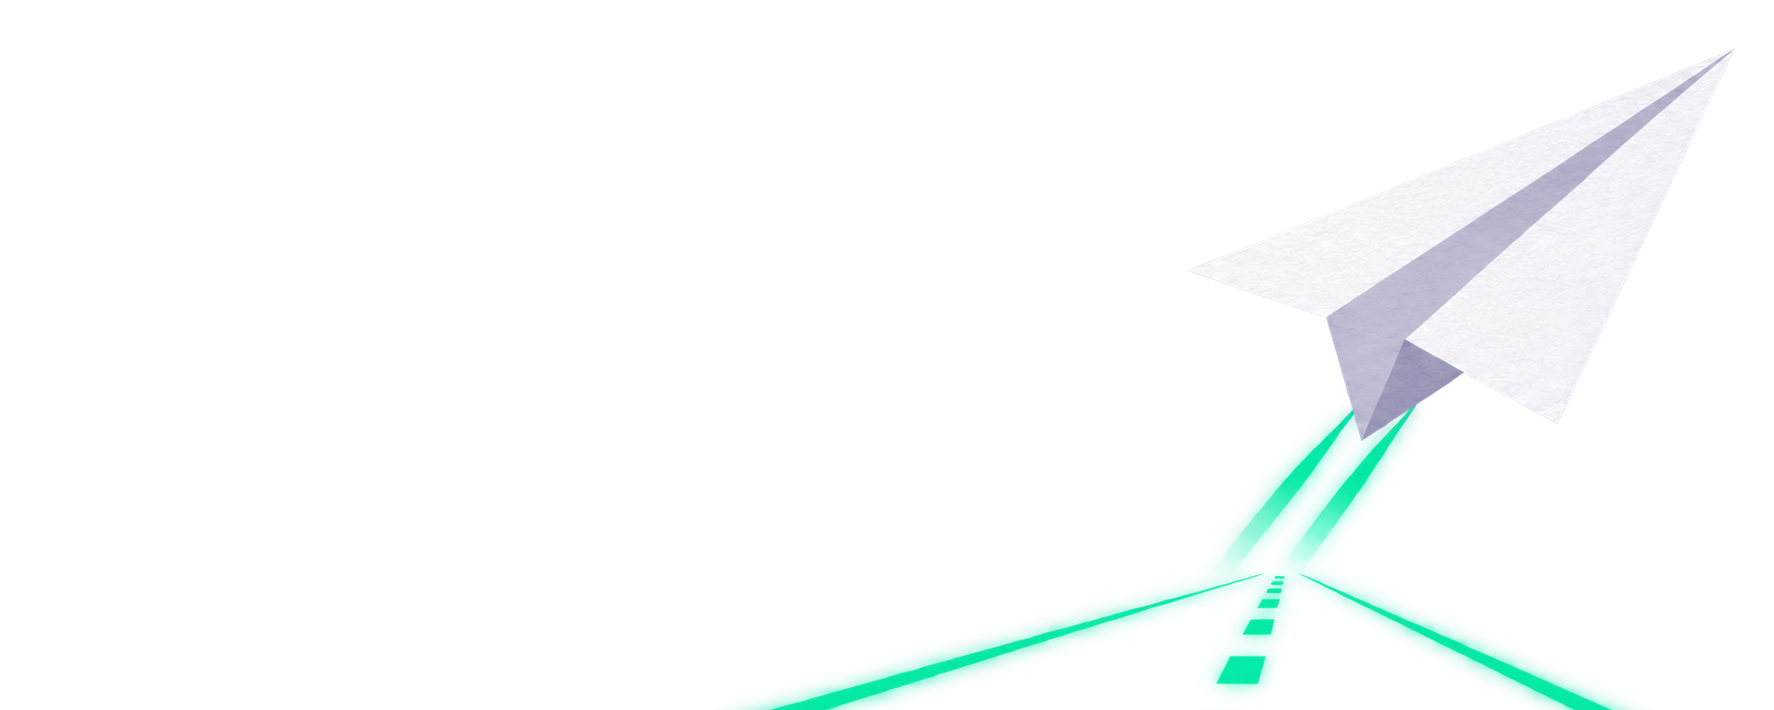
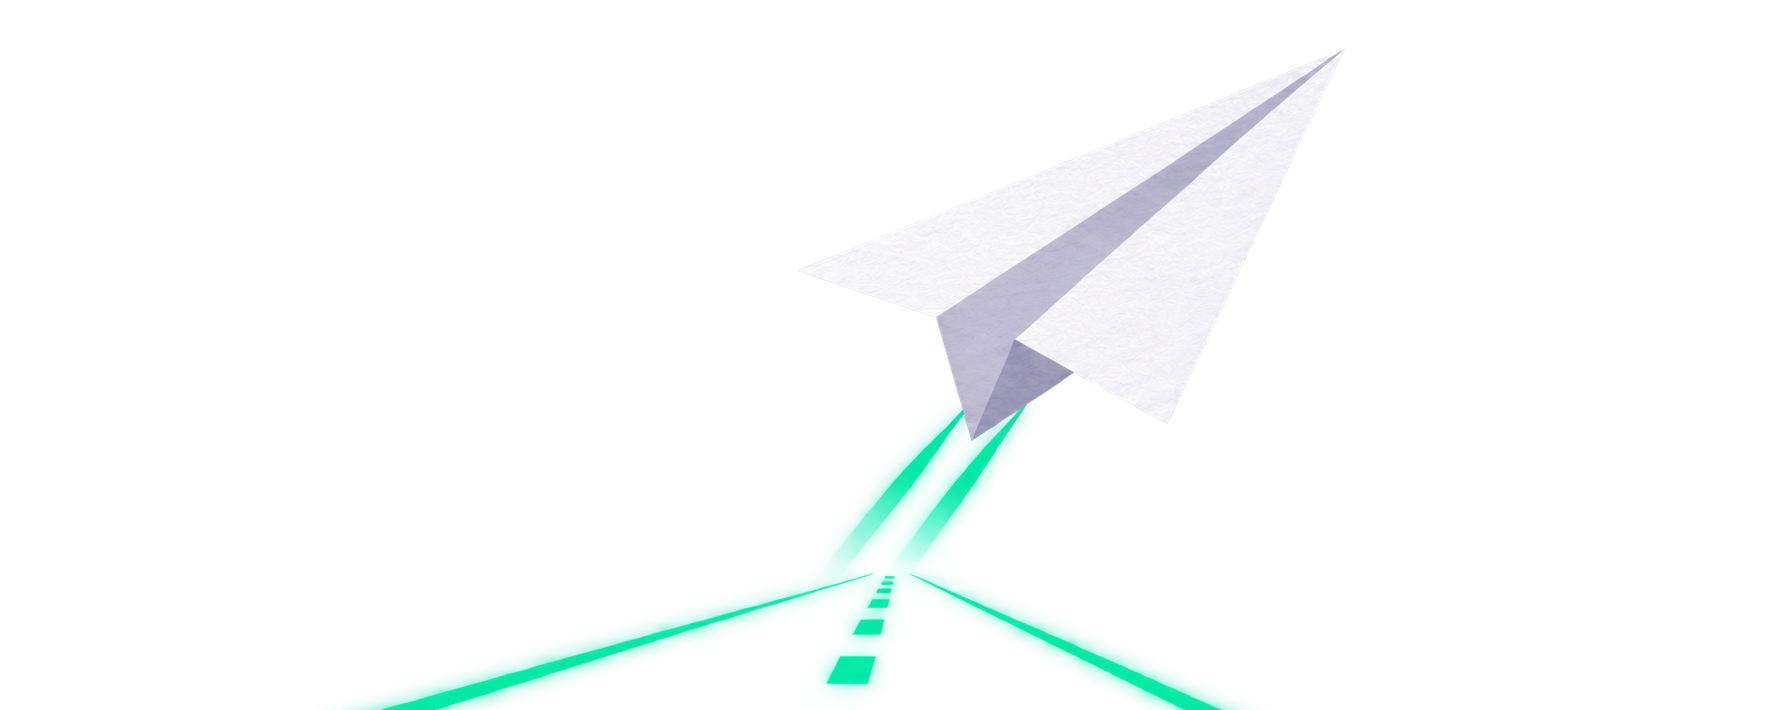
docs: center runway above GitHub Actions

Changed region(s): [[0.186, 0.1549, 0.9301, 1.0], [0.9301, 0.093, 0.9611, 0.1549], [0.7131, 0.093, 0.7441, 0.1549]]

diff --git a/README.md b/README.md
@@ -1,6 +1,6 @@
 # Runway a free personal stack
 
-![Paper airplane taking off along a glowing green runway.](docs/images/runway.png?v=shorter-1)
+![Paper airplane taking off along a glowing green runway.](docs/images/runway.png?v=centered-1)
 
 ![Solution architecture: GitHub Actions coordinates Cloudflare DNS and Vercel deployment, with a conditional Supabase data and authentication connection.](docs/architecture/solution-overview.svg?v=lighter-cards-1)
 
